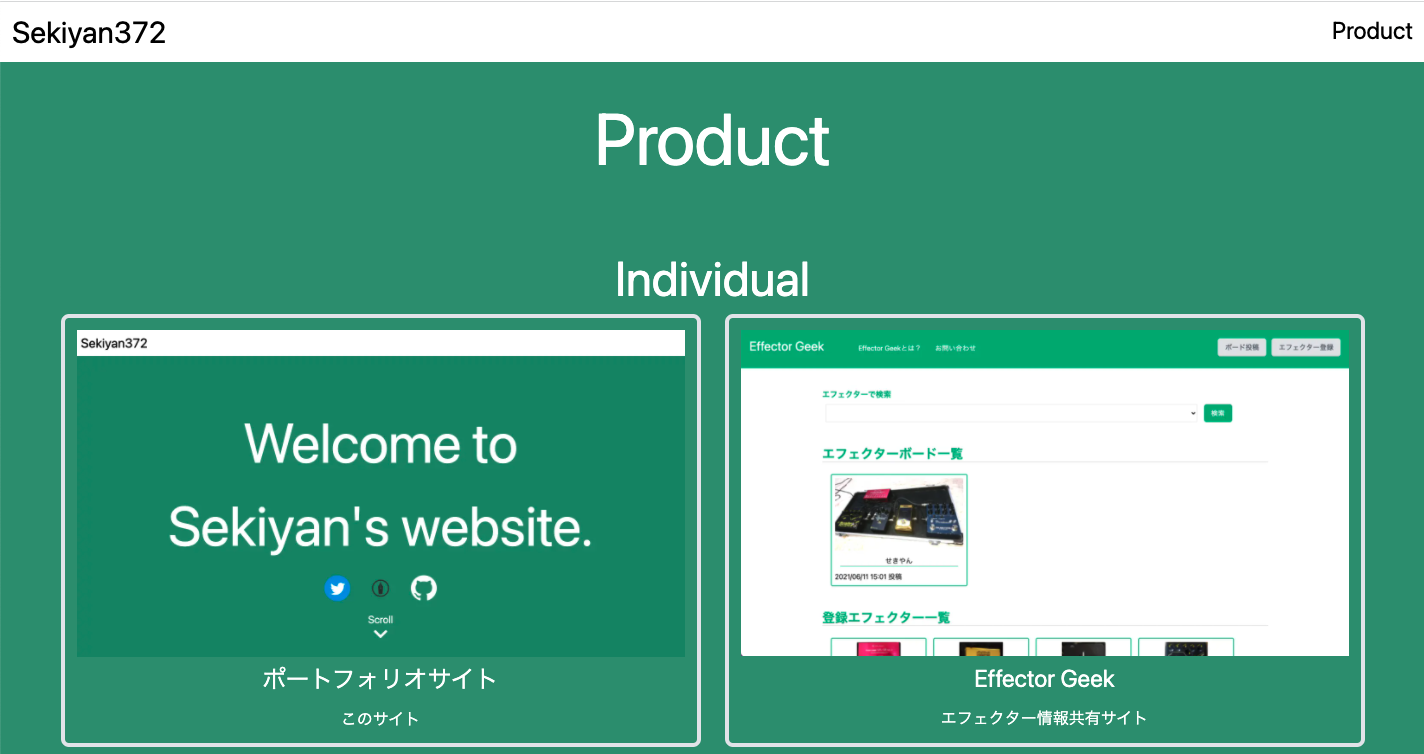
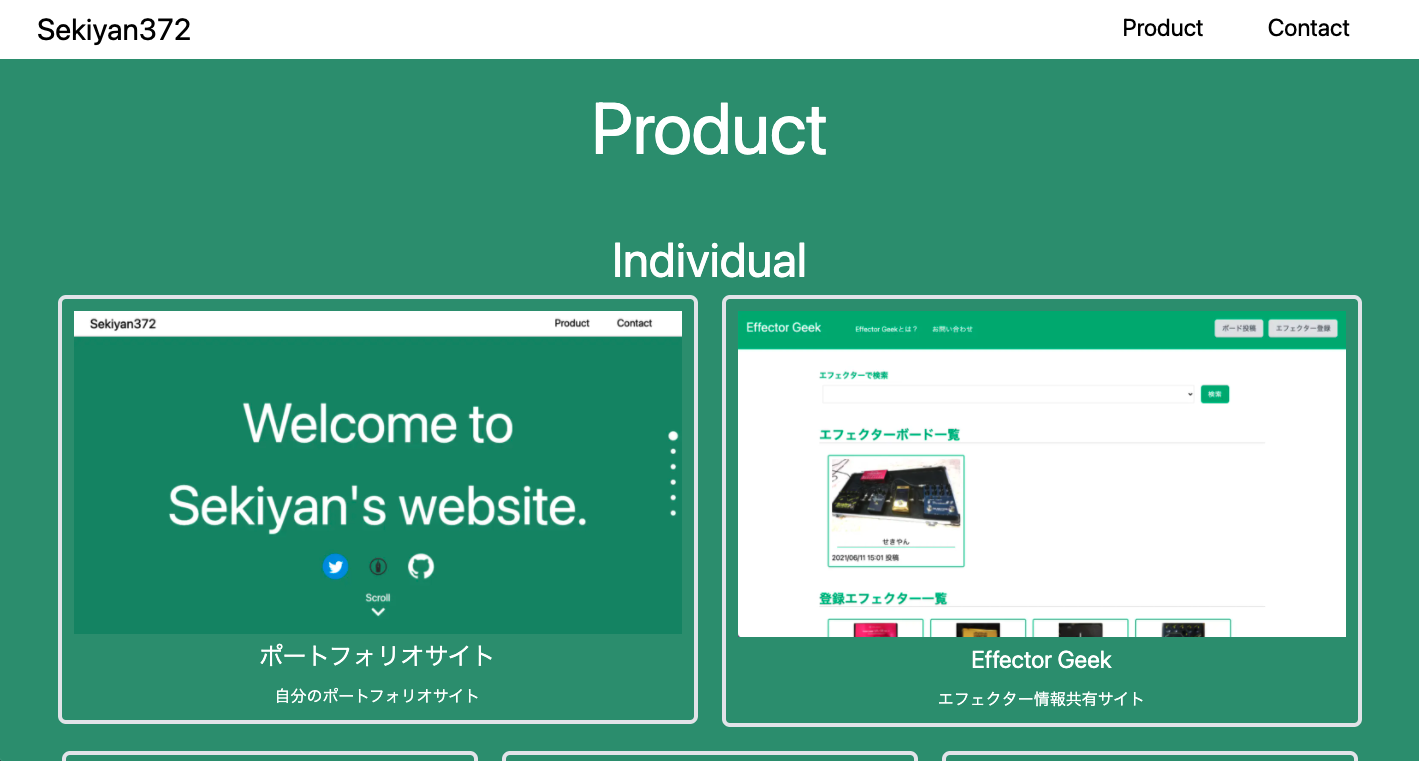
productを更新

diff --git a/src/sections/Product.tsx b/src/sections/Product.tsx
@@ -17,12 +17,12 @@ const Product: ForwardRefRenderFunction<HTMLElement> = ({}, ref) => {
       <Heading>Product</Heading>
       <Link href="/product" passHref>
         <div className="relative flex justify-center items-center w-160 h-96 m-8 cursor-pointer">
-          <div className="absolute md:w-160 w-72 md:h-96 h-42 md:my-12 my-6 bg-black inline-block">
+          <div className="absolute md:w-160 w-72 md:h-90 h-42 md:my-12 my-6 bg-black inline-block">
             <Image
               src={PRODUCT}
               alt="product page"
               width={640}
-              height={384}
+              height={360}
               className="block opacity-40"
             />
           </div>

diff --git a/tailwind.config.js b/tailwind.config.js
@@ -8,6 +8,7 @@ module.exports = {
   theme: {
     extend: {
       spacing: {
+        '90': '22.5rem',
         '104': '26rem',
         '120': '30rem',
         '136': '34rem',
